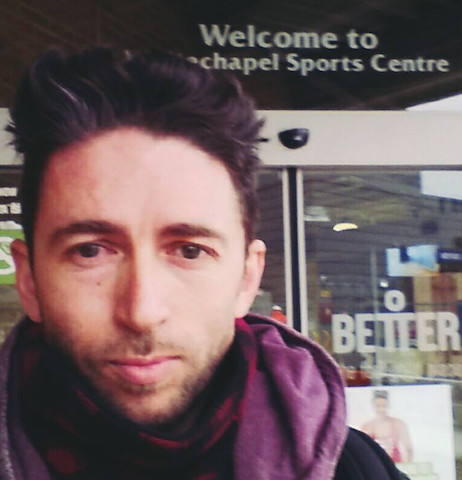
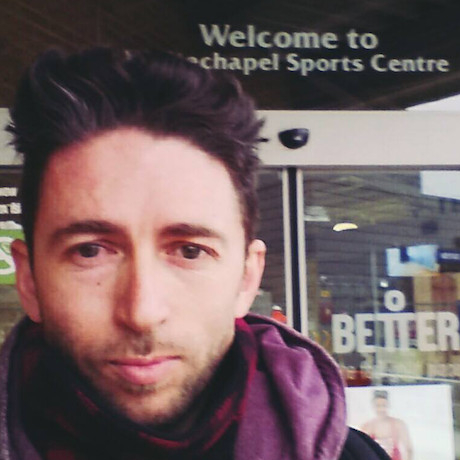
PR comment fixes

diff --git a/_posts/2017-03-28-hackday-and-the-17pound-soda.md b/_posts/2017-03-28-hackday-and-the-17pound-soda.md
@@ -5,93 +5,103 @@ author: "Troy Harris"
 excerpt: >
   We started at Deliveroo 4 months ago and have been building an API test framework which has now just completed stage 1.  
     
-  <b>TL/DR</b> We’re pretty happy here at Deliveroo, we’re learning, we’re having fun, we’re doing it at pace. 
-  Soda == Doughnutz*
+  **TL/DR** We’re pretty happy here at Deliveroo, we’re learning, we’re having fun, we’re doing it at pace. 
+  `Soda == Doughnuts`
   
 ---
 
 ## So I better start from the beginning...
 
 Joining Deliveroo Engineering back in November 2016 as two ex Yammer / Microsoft employees, [Victoria Puscas](https://www.linkedin.com/in/vpuscas/) 
-and I have been been toiling away on stage 1 of an API framework we’re attempting to inject into the deployment pipeline, 
+and I have been been toiling away on the first stage of an API framework we’re attempting to inject into the deployment pipeline, 
 and we’re happy to say stage 1 is now complete!  
 
-Before we talk a little more about the process, the next stage, and the hackday* £17 soda we’d like to say a few things 
-about Deliveroo first impressions:
+Before we talk a little more about the process, the next stage, and the hackday £17 soda we’d like to say a few things 
+about our Deliveroo first impressions:
 
 
-- <b>Pace</b> - Things are moving extremely fast at Deliveroo! We’ve coming up to our third office move due to the growing 
+- **Pace** - Things are moving extremely fast at Deliveroo! We’re coming up to our third office move due to the growing 
 numbers of engineers.  
-- <b>Culture</b> - Hunger games, Bunday, Ride Together, Games nights, Hack/Away days, we have fun!  
-- <b>Growth mindset</b> - Training / Conference days, Speaker support groups, always learning!  
-- <b>Data</b> - Just wow! We’ve got data scientists doing some absolutely amazing work providing the business 
+- **Culture** – our weekly company-wide lunch (lovingly named "the Hunger
+Games"), our rotating product team bakery challenge ("Bunday Monday" is a
+great start to the week), "Ride together" where our employees help the riders
+deliver food on Friday lunchtimes, "Game nights" from board games to Oculus Rift sessions,
+"Hack/Away days" where you can learn and hack to your hearts content. We have fun!  
+- **Growth mindset** - Training / Conference days, Speaker support groups, always learning!  
+- **Data** - Just wow! We’ve got data scientists doing some absolutely amazing work providing the business 
 with razor sharp vision.  
-- <b>Mindful</b> - There’s a lot of passion and consideration for all things Deliveroo, from restaurants to the Roobox, 
-riders and improving their experience, and customers getting an exceptional meal!  
+- **Mindful** - There’s a lot of passion and consideration for all things Deliveroo, from restaurants to [Deliveroo 
+Editions](https://foodscene.deliveroo.co.uk/promotions/deliveroo-editions.html) (delivery-kitchen concept), riders and improving their experience, and customers getting an exceptional meal!  
 
 
 
 
 ## So now onto Loris the API test framework
 
-When we interviewed at Deliveroo we talked in depth to [Dan Webb](https://twitter.com/danwrong) our soon to be Manager about testing, how we can help 
-level up QA’s, and an automated test framework we’d like to implement. We wanted to <b>quickly model the critical 
-end-to-end business flow that starts with the consumer and finishes at the delivery</b>. Fortunately he liked our plan 
+When we interviewed at Deliveroo we talked in depth to [Dan Webb](https://twitter.com/danwrong) - our soon-to-be Manager - about testing, how we could help 
+level up QAs, and an automated test framework we’d like to implement. We wanted to **quickly model the critical 
+end-to-end business flow that starts with the consumer and finishes at the delivery**. Fortunately he liked our plan 
 and we set to task.
 
 
 ## Where did we start? 
-With the wonderful team of QA’s who allowed us to pillage their test plans, and steal some of their valuable time. 
+With the wonderful team of QAs who allowed us to pillage their test plans, and steal some of their valuable time. 
 We went from team to team on a mission of discovery to understand what was the beginning and end of a Deliveroo order. 
 It was a great way to meet the team, understand processes, and get our bearings. 
 
 As we collated documents, we configured our environments with mobile emulators, proxies, hooked into logging, poked and 
 prodded endpoints, and got an understanding of the deployment process. Within 2 weeks a single spreadsheet with a 
 simple list of 12 steps was created, and most importantly a discussion began on what we should call the new framework, 
-with a tip of the hat to Yammer’s ‘Otter’ framework, we chose Loris, our soon to be slender API test framework.
+with a tip of the hat to Yammer’s ‘Otter’ internal test framework, we chose a name which we thought was short, cute, and 
+anything but slow - Loris, our soon to be slender API test framework.
 
-Our first commit, the frameworks README.md, and manifesto include the following:
+Our first commit, the framework's README.md, and manifesto include the following objectives:
 
 - Aim to automate basic business flows, and regression scenarios
 - No longer than 5 minute full test suite duration
-- It is not a: UI framework, dump for ALL test scenarios, mobile test framework
+- Shared ownership
+- There are no gatekeepers
+- It is not: a UI framework, dump for ALL test scenarios, mobile test framework
 - Add a scenario if it is: a positive business flow, critical business flow 
 - Don't add scenario for: valid/invalid data types, structure of payload, two service interaction, 
 just a http response code, endpoint check without context
-- Shared ownership
-- There are no gatekeepers
 
-This allowed us to <b>establish boundaries for what we valued in our framework</b>, and set expectations for what we would 
+This allowed us to **establish boundaries for what we valued in our framework**, and set expectations for what we would 
 deliver. These early discussions continue to help us prioritise work quickly and without much debate.
 
-Now there’s one thing we really wanted to get right, and it sounds obvious, <b>double your efforts on communication!</b> 
+Now there’s one thing we really wanted to get right, and it sounds obvious, we aim to **double our efforts with communication!** 
 I’ve seen frameworks implemented by contractors who spend a few days discussing what the team needs, disappearing for 
 3 months and slapping something on the table as they walk out for their South American adventure! That framework lasts 
 about 2 months before it gets ripped out and re-written. 
 
-Communicating early and often with developers and QA’s allows you to do two things:  Tap into some serious talent to 
-refactor your growing frameworks foundations, and begin levelling up your QA’s from manual testers to automation gurus. 
+Communicating early and often with developers and QAs allows you to do two things:  Tap into some serious talent to 
+refactor your growing framework's foundations, and begin levelling up your QAs from manual testers to automation gurus. 
 
-After 3 months we completed stage 1 which allows us to complete the full Deliveroo order <b>end-to-end business flow in 
-~16 seconds</b>. 
+After 3 months we completed stage 1 which allows us to complete the full Deliveroo order **end-to-end business flow in 
+~16 seconds**. 
 
 It looks a little like this:
 
 
  
-![Rubmine structure](/images/posts/hackday-and-the-17pound-soda/rubymine_structure.png)  
-
+<figure>![Rubmine structure](/images/posts/hackday-and-the-17pound-soda/rubymine_structure.png)  
+<caption>Framework directory structure, and description of classes within them</caption>
+</figure>
 
 ## So what’s next for Loris? 
 
-We’ve just completed another milestone which is to run across 11 out of 12 countries (UAE needs a payment type added), we started to top out at 5 minutes 
-which means we hit our self limited 5 minute ceiling, so we quickly moved over from Travis to CircleCI and run across 
-multiple nodes, we’re now back down to ~2 mins. Loris is now well on the way to becoming her own service so we 
-can <b>become part of the deploy pipeline</b>, and additional payment types are being implemented thanks to our new 
-team member [Pauric Ward](https://www.linkedin.com/in/linuxpauric/).  
+We’ve just completed another milestone which is to run across 11 out of 12 countries (UAE has an unusual payment 
+provider we'll be automating soon), but this has our suite running in just under 5 minutes on a slow day, which means 
+we hit our self-imposed limit for execution time.  
+
+To solve this we ended up moving from [Travis](https://travis-ci.com) to [CircleCI](https://circleci.com/) which 
+let us run across multiple nodes, bringing it back down to ~2 mins.  
+
+Loris is now well on the way to becoming her own service so we can **become part of the deploy pipeline**, and 
+additional payment types are being implemented thanks to our new team member [Pauric Ward](https://www.linkedin.com/in/linuxpauric/).  
 
 <hr>
-## <center> The Hackday £17 soda </center>
+# The Hackday £17 soda 
 
 <blockquote class="twitter-tweet" data-lang="en" align="center">
 <p lang="en" dir="ltr">When your hackday hack brings you crosstown doughnuts everyone&#39;s a winner <a href="https://t.co/vxtuyG0HiK">pic.twitter.com/vxtuyG0HiK</a></p>&mdash; Troy Harris (@TroyHarrisOz) <a href="https://twitter.com/TroyHarrisOz/status/846093658784976897">March 26, 2017</a>
@@ -102,19 +112,19 @@ team member [Pauric Ward](https://www.linkedin.com/in/linuxpauric/).
 Deliveroo ran its first engineering Hack Away day in early March which was smoothly organised by Engineering lead 
 [Edd Sowden](https://twitter.com/edds). There were multiple speaking tracks throughout the day ranging from 'Future architecture' with 
 [Julien Letessier](https://github.com/mezis), to 'Machine learning with Deliveroo Algos' with [Alessio Dore](https://www.linkedin.com/in/alessio-dore-70026ba/). 
-There was also time for some hacking, and <b>this is where a £2.50 soda was purchased for £17</b>.
+There was also time for some hacking, and **this is where a £2.50 soda was purchased for £17**.
 
-<b>Note:</b>   
+**Note:**   
 - When pointing a test framework at PRODUCTION remove the £12 tip!  
 - Customer support is your friend when incorrectly placing an order  
-- POSTS's via Zapier like repository ID's. Don’t use slug names, find your ID via the Travis CLI.
+- POSTs via Zapier like repository IDs. Don’t use slug names, find your ID via the Travis CLI.
 
-<b> 1. Controller </b>  
+### 1. Controller 
 
-To fire off our dougnut order, and have our phone shout "DOUGNUTS!") we'll use a bluetooth button to trigger our 
+To fire off our doughnut order, and have our phone shout "DOUGHNUTS!") we'll use a bluetooth button to trigger our 
 Travis build. Purchase your [Flic.io bluetooth button](https://flic.io/)  
   
-<b> 2. Triggering builds through Travis API </b>  
+### 2. Triggering builds through Travis API  
 Read this: [Travis triggering builds](https://docs.travis-ci.com/user/triggering-builds/)  
  
 Test build triggered with Curl:  
@@ -133,28 +143,26 @@ curl -s -X POST \
   -d "$body" \
   https://api.travis-ci.org/repo/tastydeliveroo%2Fdonutz/requests
 ```  
-<br>
 
-<b> 3. Flic bluetooth button Zapier integration </b>  
+### 3. Flic bluetooth button Zapier integration 
 Read up on [How to use Zapier webhooks](https://zapier.com/blog/how-use-zapier-webhooks/)
-<br>  
+ 
 Add your [Zapier integration](https://zapier.com/zapbook/flic/)  
-<br>
-![Zapier payload](/images/posts/hackday-and-the-17pound-soda/zapier_payload.png)  
-<br>
 
-<b> 3. Point your API framework at Production </b>  
-Press the button - <em>'DOUGHNUTS!' </em> - What could possibly go wrong?  
-<br>
+<figure>
+![Zapier payload](/images/posts/hackday-and-the-17pound-soda/zapier_payload.png) 
+</figure>  
 
-<b> 4. Consume dougnuts </b>  
+
+### 4. Point your API framework at Production 
+Press the button - _'DOUGHNUTS!'_ - What could possibly go wrong?  
+
+
+### 5. Consume doughnuts  
 Thank you [Crosstown doughnuts](https://www.crosstowndoughnuts.com/)!  
-<br>
-![Crosstown dougnutz](/images/posts/hackday-and-the-17pound-soda/doughnutz.gif)
-![Crosstown dougnutz](/images/posts/hackday-and-the-17pound-soda/doughnutz.gif)
-![Crosstown dougnutz](/images/posts/hackday-and-the-17pound-soda/doughnutz.gif)  
+
 
 <hr>
-<center> Thanks for reading, we hope you’ve enjoyed Loris at stage 1!  
-<br>  
-Team SETI, Deliveroo Engineering</center>
+<center> Thanks for reading, we hope you’ve enjoyed Loris at stage 1!</center>   
+    
+<center>Team SETI, Deliveroo Engineering</center>

diff --git a/_authors/troy-harris.md b/_authors/troy-harris.md
@@ -6,7 +6,7 @@ jobtitle:   "Quality Engineer"
 portrait:   "/images/portraits/troy-harris.jpg"
 ---
 
-From the early days of startups in Wollongong, Australia to London based food ponys.  
+From the early days of startups in Wollongong, Australia to London based food ponies.  
 
 I've navigated my way around the London tech scene, learning, growing, and realising there's always another page.  
 
